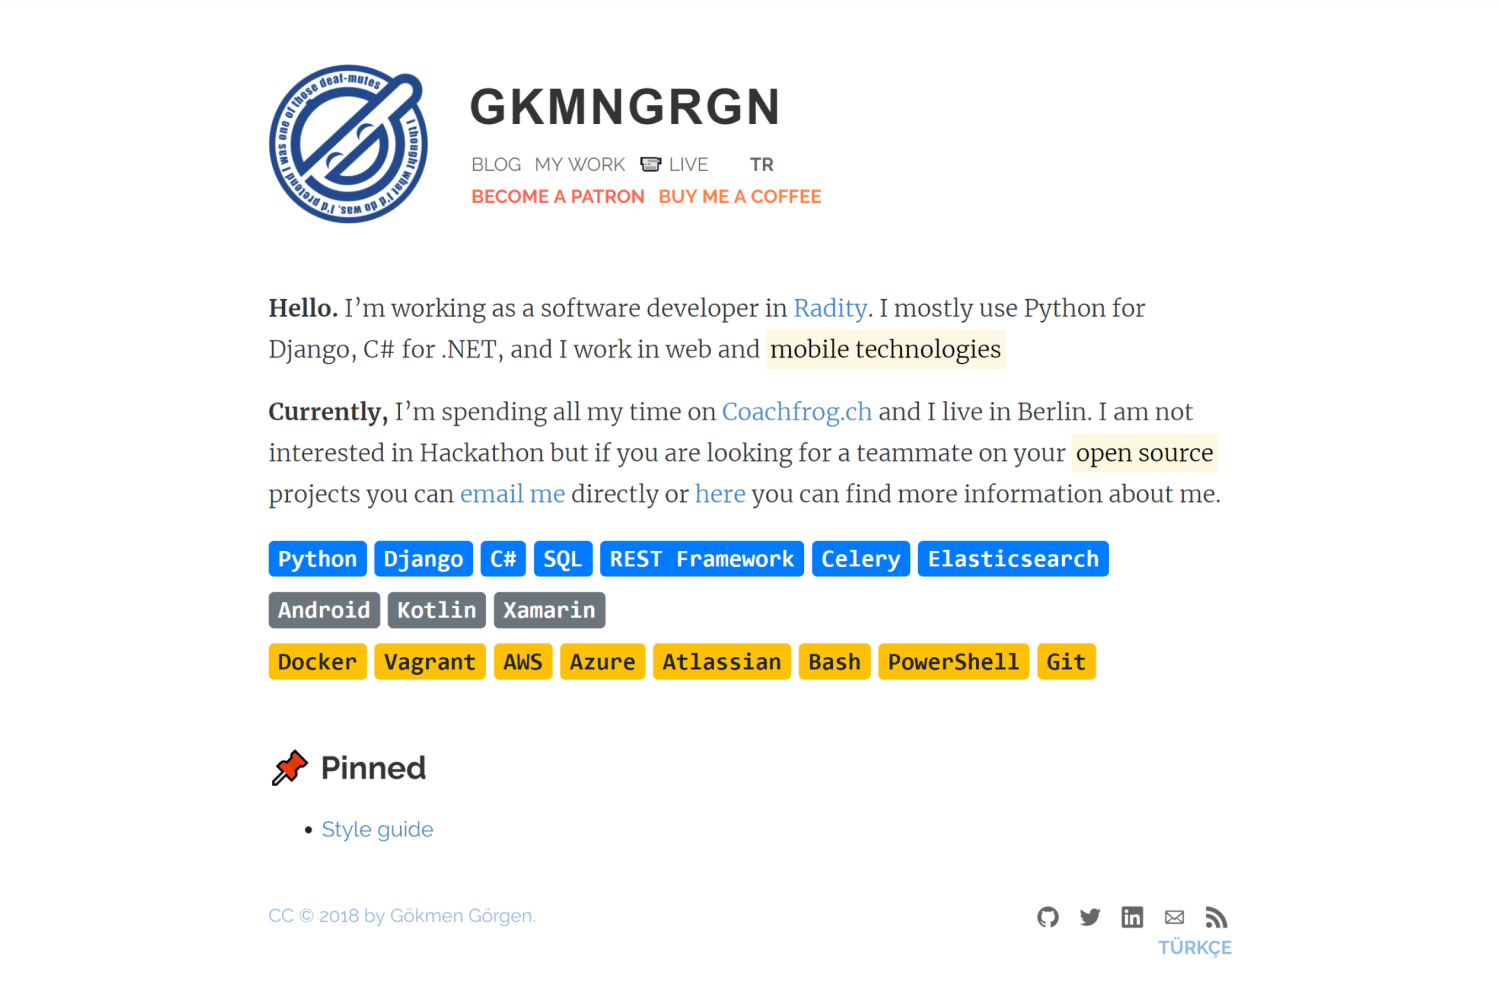
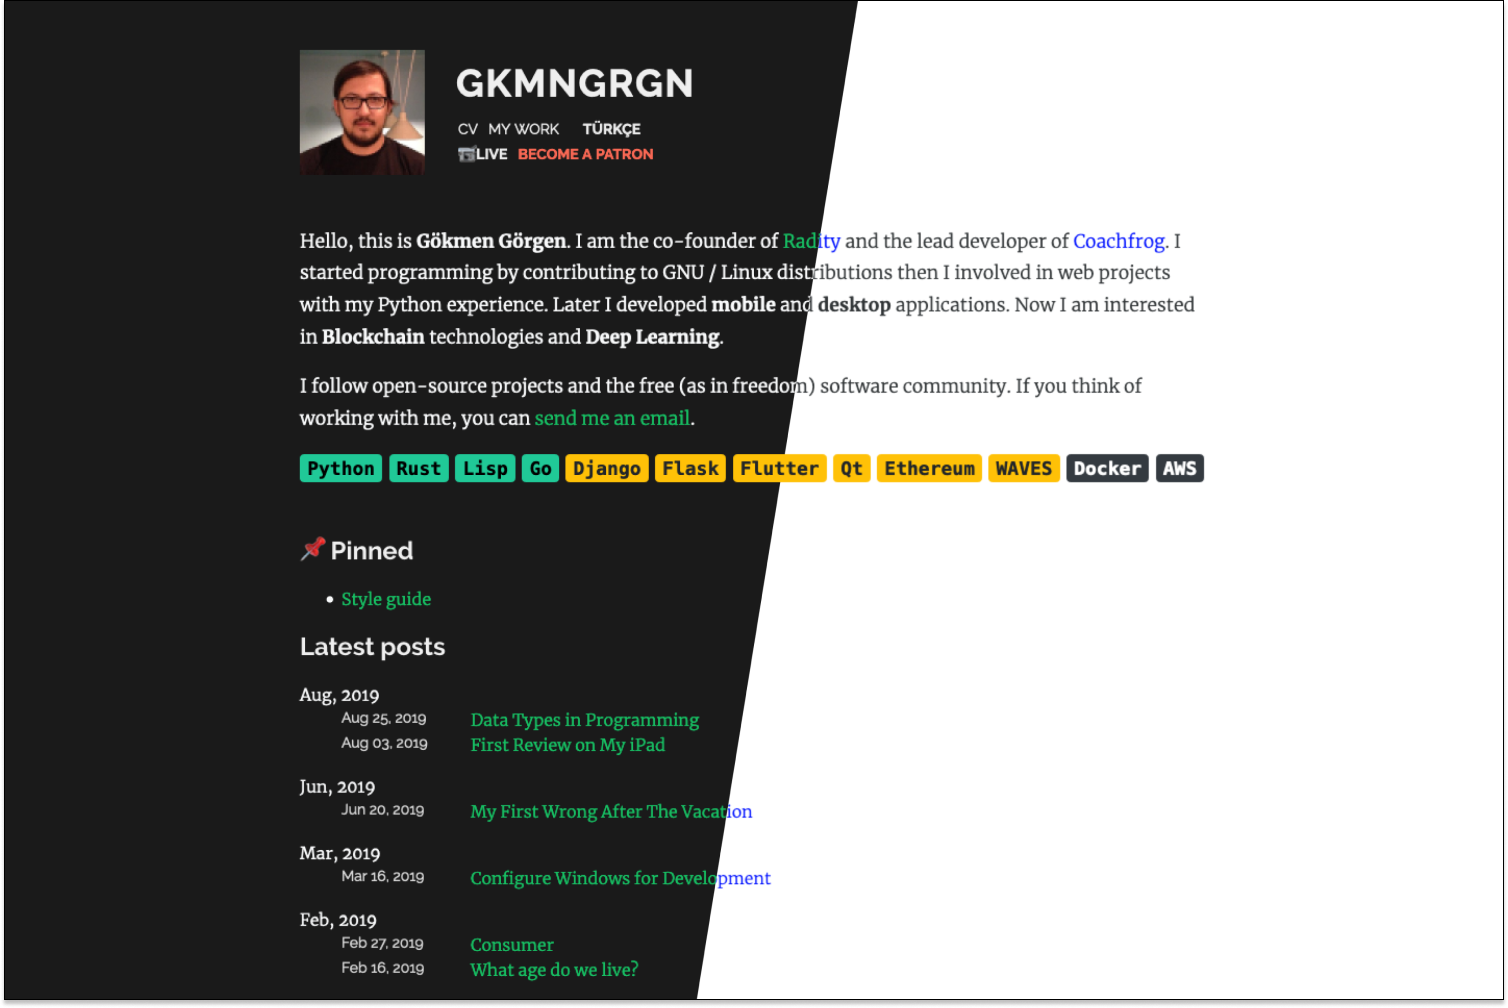
add all available params to example config.toml. #3
and update screenshots. we support dark mode anymore.

diff --git a/README.md b/README.md
@@ -3,6 +3,8 @@
 # hugo-alageek-theme
 A [Cocoa Enhaced](https://github.com/mtn/cocoa-eh-hugo-theme) based theme. It's rewritten with **Bootstrap 4**.
 
+![](/images/screenshot.png)
+
 <a href="https://www.patreon.com/gkmngrgn" title="Donate to this project using Patreon">
     <img src="https://img.shields.io/badge/become%20a%20patron-F96854.svg?longCache=true&style=for-the-badge"
          alt="Patreon donate button" />
@@ -41,10 +43,6 @@ Websites that are using hugo with alaGeek theme:
 * English (Default)
 * Romanian
 * Turkish
-
-## TODO
-
-* Printer friendly output
 
 ## Dependency versions
 
